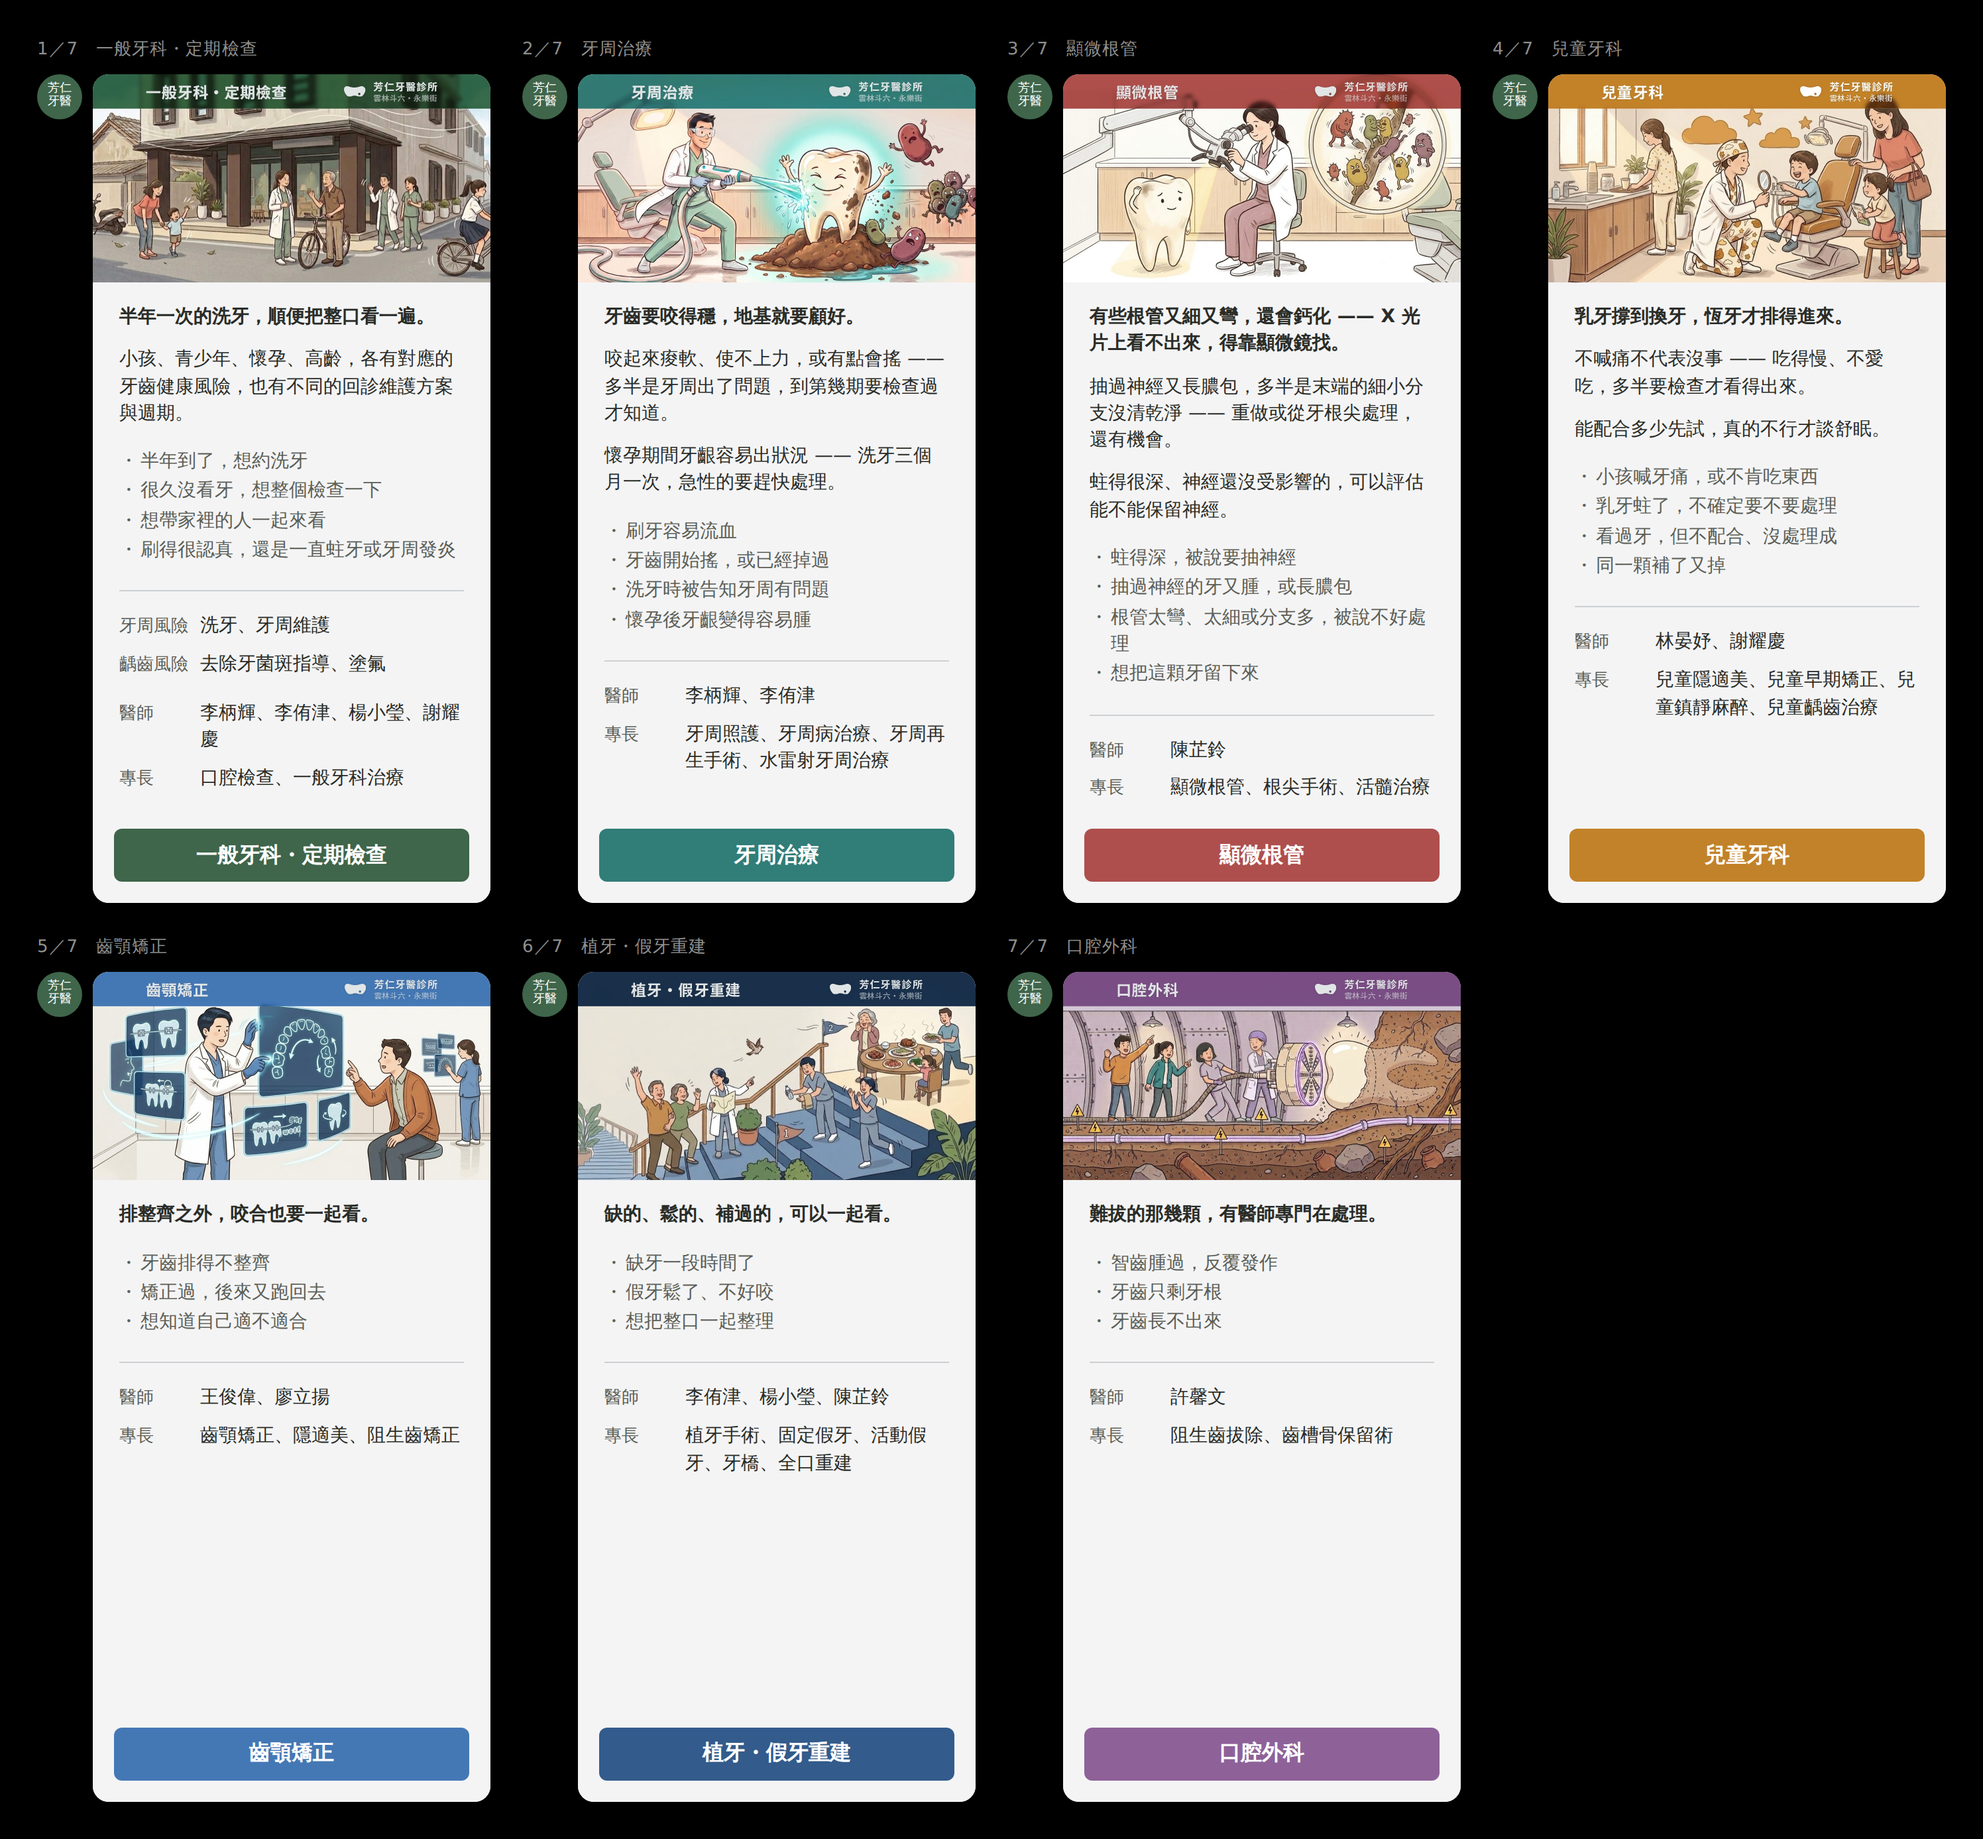
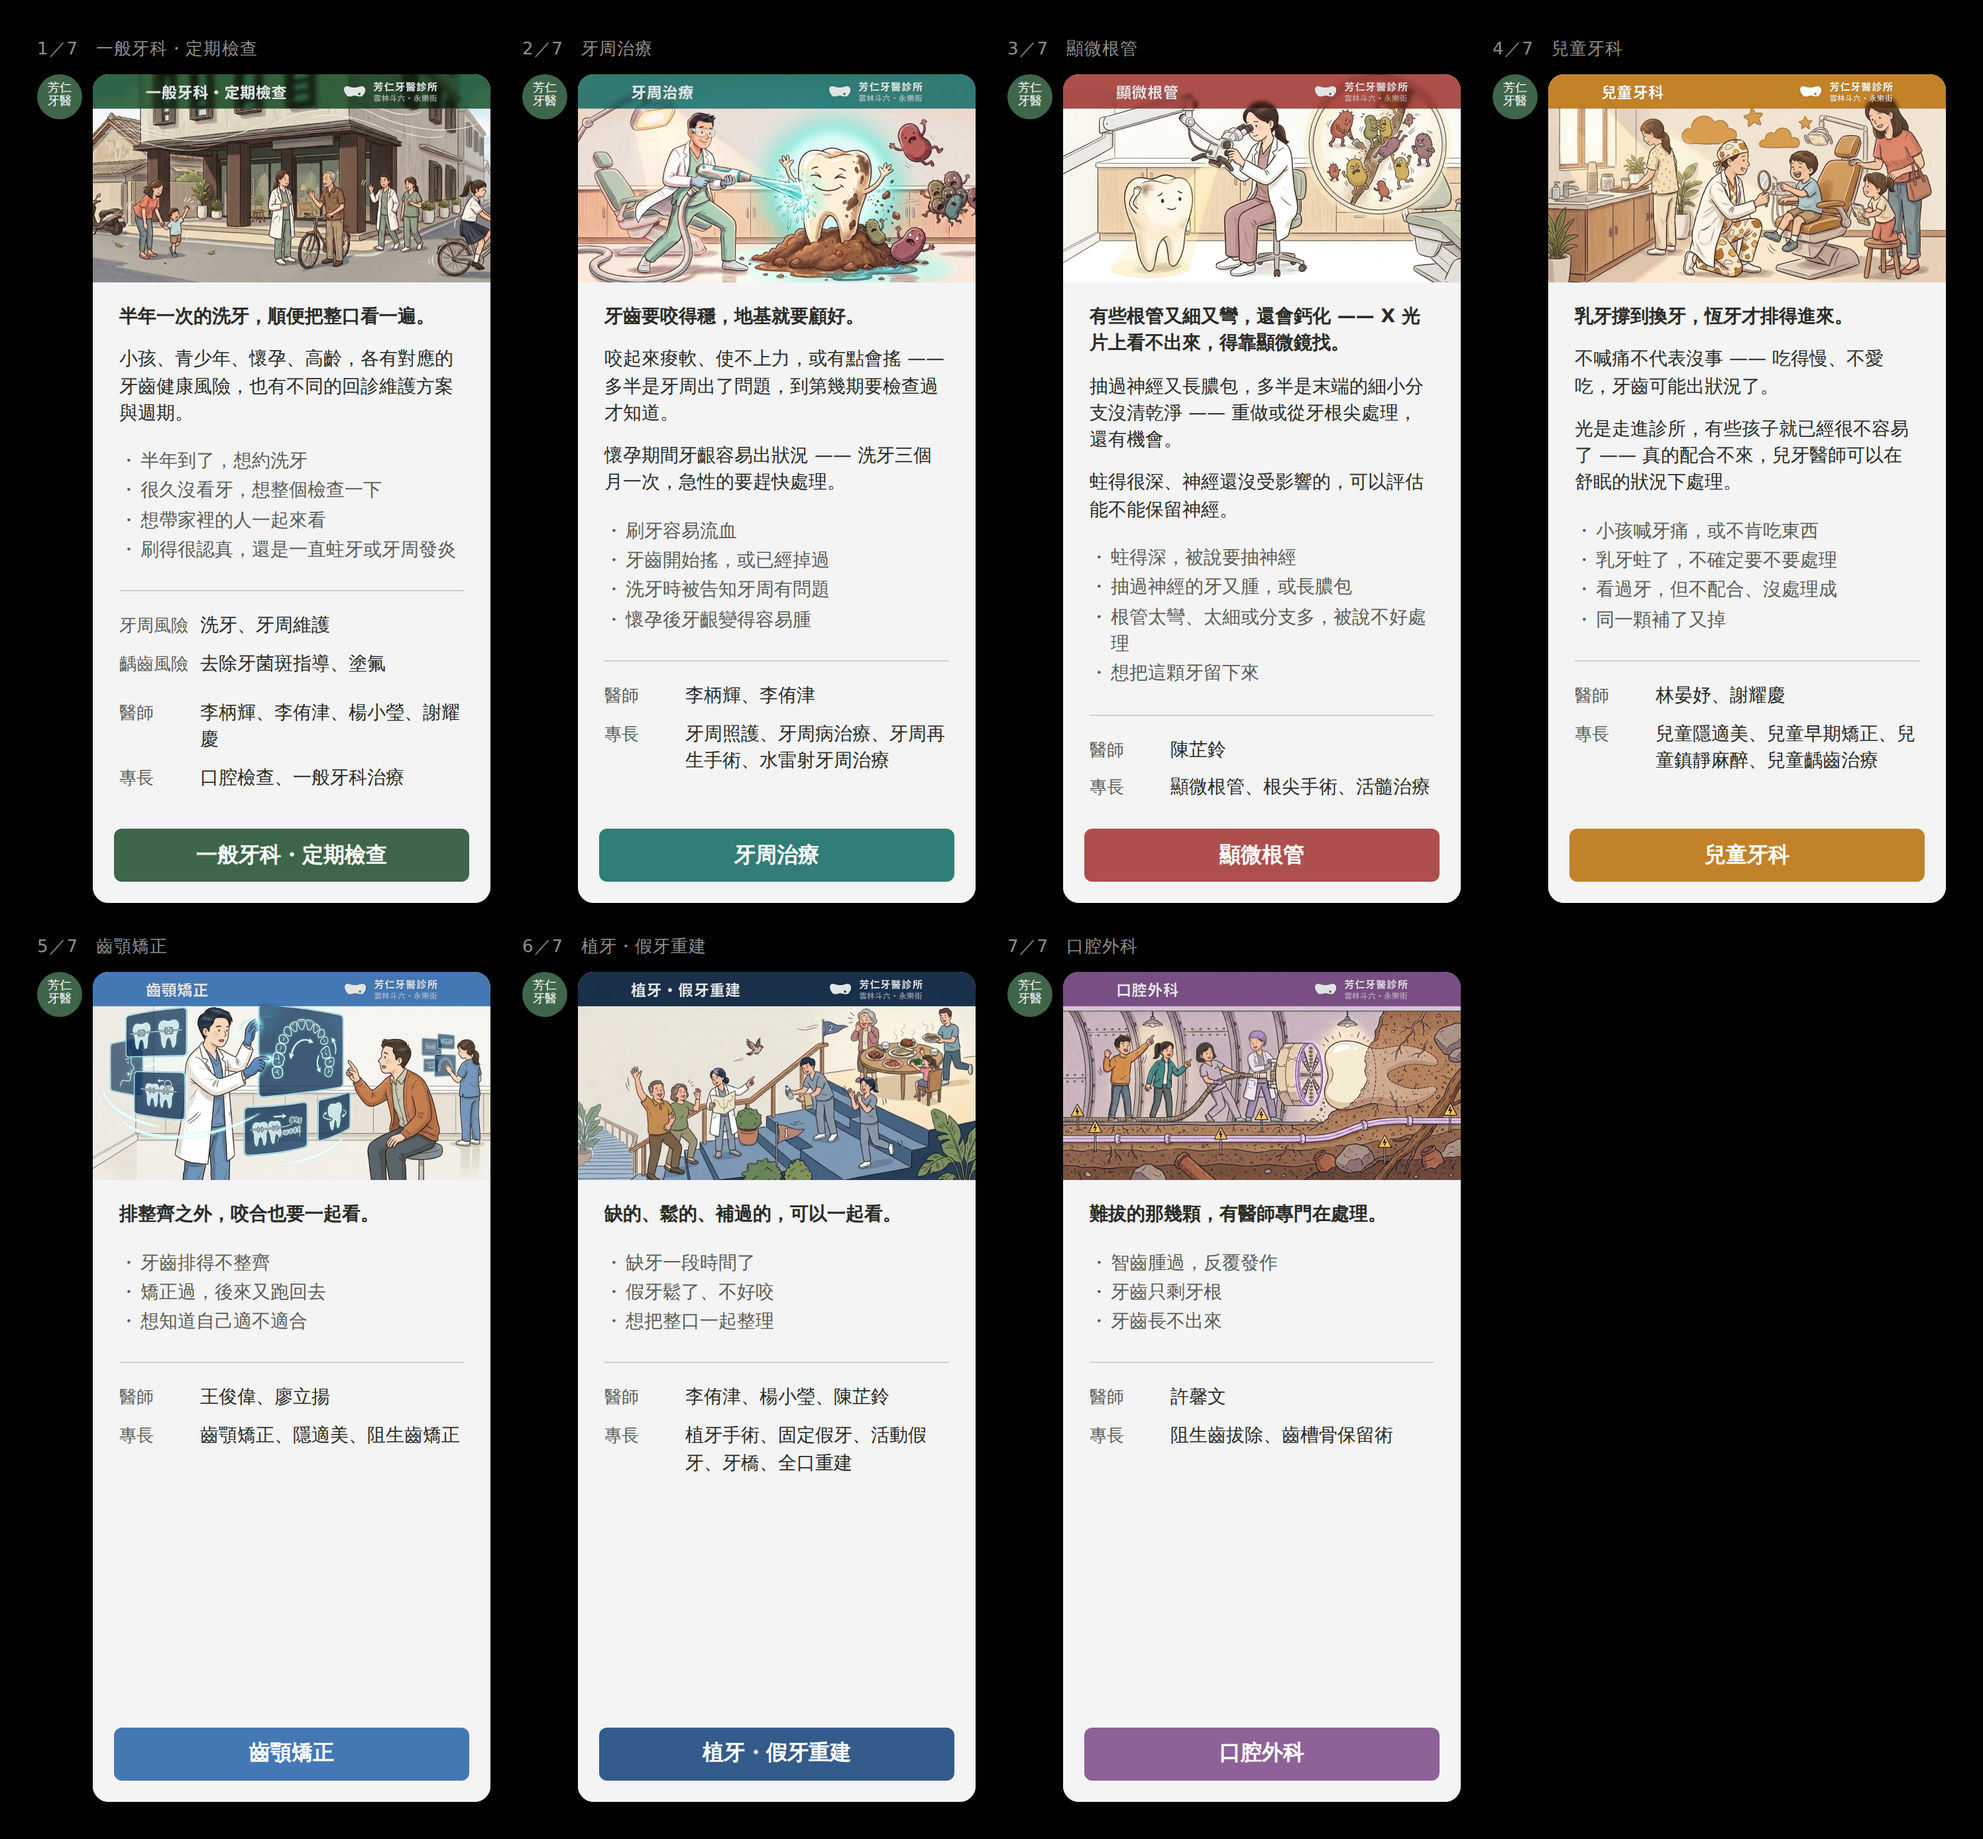
兒牙：舒眠那句改語氣，「多半要檢查才看得出來」→「牙齒可能出狀況了」
使用者：「（能配合多少先試）聽起來有種想盡辦法嘗試。實際狀況是小孩可能已經很
緊張恐懼，光進診所就已經花了家長很大的心力。我想到『孩子如果不能配合了，
兒牙醫師可以在舒眠的狀況下處理』。」

毛病不是用詞是語氣站錯位置：「先試」把責任放在孩子與家長身上，可是他們光是
走進診所就已經很費力了。定案先承認那件事，再把舒眠說成還有這條路，不是
「失敗了才用的手段」。後半逐字用使用者的原話。

⚠ 上一輪那條「適應症有限的處置要連邊界一起寫」仍然守住 —— 邊界由「真的配合
不來」承擔，而且還是沒有介紹舒眠怎麼做（誰執行、怎麼監測是還沒問到的事）。

note① 同一輪也改：「多半要檢查才看得出來」是要他來檢查（診所視角的行動），
「牙齒可能出狀況了」是告訴他發生了什麼（他的處境）。

⚠ 站上著陸頁 flow［先試過］寫的正是被退回的那個語氣，同一個問題還留在網站上。

Claude-Session: https://claude.ai/code/session_01QMa36HgXCp2rYEV7ykbWqK

Changed region(s): [[0.7771, 0.186, 0.9636, 0.434], [0.7771, 0.341, 0.8082, 0.403]]

diff --git a/drafts/line-oa/README.md b/drafts/line-oa/README.md
@@ -195,7 +195,7 @@ node drafts/line-oa/flex-preview.mjs topics-carousel.json     # → preview-topi
 | 一般牙科 | 半年一次的洗牙，順便把整口看一遍。<br>（另有 `note` 與兩列 `rows`：風險 → 做什麼） | flow［半年］逐字＋使用者 08-27 補的事實 |
 | 牙周治療 | 牙齒要咬得穩，地基就要顧好。<br>（另有兩句 `note`：痠軟使不上力多半是牙周／懷孕） | flow［檢查］「地基」＋使用者 08-27 指定的兩個概念 |
 | 顯微根管 | 有些根管又細又彎，還會鈣化 —— X 光片上看不出來，得靠顯微鏡找。<br>（另有兩句 `note`：長膿包／活髓） | flow［清得到］＋〈生物陶瓷〉＋使用者 08-27 給的事實 |
-| 兒童牙科 | 乳牙撐到換牙，恆牙才排得進來。<br>（另有兩句 `note`：不喊痛不代表沒事／舒眠的順序） | flow［留位置］＋groups①reply＋flow［先試過］ |
+| 兒童牙科 | 乳牙撐到換牙，恆牙才排得進來。<br>（另有兩句 `note`：不喊痛不代表沒事／舒眠） | flow［留位置］＋groups①reply＋flow［先試過］ |
 | 齒顎矯正 | 排整齊之外，咬合也要一起看。 | stance |
 | 植牙・假牙重建 | 缺的、鬆的、補過的，可以一起看。 | cases②＋flow［看全口］ |
 | 口腔外科 | 難拔的那幾顆，有醫師專門在處理。 | stance＋close |
@@ -570,3 +570,30 @@ CLAUDE.md 第九節那張表裡**還沒問到**的事，不要自己補。
 **cases** ①③④ 維持；②新增，把 open 回答的那個猶豫寫成家長自己的話。
 
 ⚠ 版面沒有再長（1387 CSS px，和上一版相同）。
+
+### ⚠⚠⚠ 第十四輪：兒牙那句舒眠**語氣站錯位置**（2026-08-27）
+
+第一版寫「能配合多少先試，真的不行才談舒眠」。使用者：
+
+> 「聽起來有種**想盡辦法嘗試**。實際狀況是**小孩可能已經很緊張恐懼，
+> 光進診所就已經花了家長很大的心力**。語氣要改一下。我想到
+> 『**孩子如果不能配合了，兒牙醫師可以在舒眠的狀況下處理**』。」
+
+⚠⚠ **這一輪的毛病不是用詞，是語氣站錯位置。**「先試」把責任放在孩子與家長身上
+（再努力一點看看），可是他們**光是走進診所就已經很費力了**。
+
+定案：**先承認那件事，再把舒眠說成「還有這條路」，不是「失敗了才用的手段」。**
+
+> 光是走進診所，有些孩子就已經很不容易了 —— 真的配合不來，兒牙醫師可以在舒眠的狀況下處理。
+
+⚠ 後半是**使用者的原話**，逐字用。
+⚠ 上一輪那條「適應症有限的處置要連邊界一起寫」**仍然守住** ——
+邊界現在由「真的配合不來」承擔，而且**還是沒有介紹舒眠怎麼做**
+（誰執行、怎麼監測，是 CLAUDE.md 那張表裡還沒問到的事）。
+
+同一輪 note① 也改：「多半要檢查才看得出來」→「**牙齒可能出狀況了**」。
+前者是**要他來檢查**（診所視角的行動），後者是**告訴他發生了什麼**（他的處境）。
+
+⚠⚠ **站上著陸頁 flow［先試過］寫的正是被退回的那個語氣**
+（「能配合多少先試，不行才談舒眠」）—— **同一個問題還留在網站上**，
+要不要一起改是要問使用者的一題。
